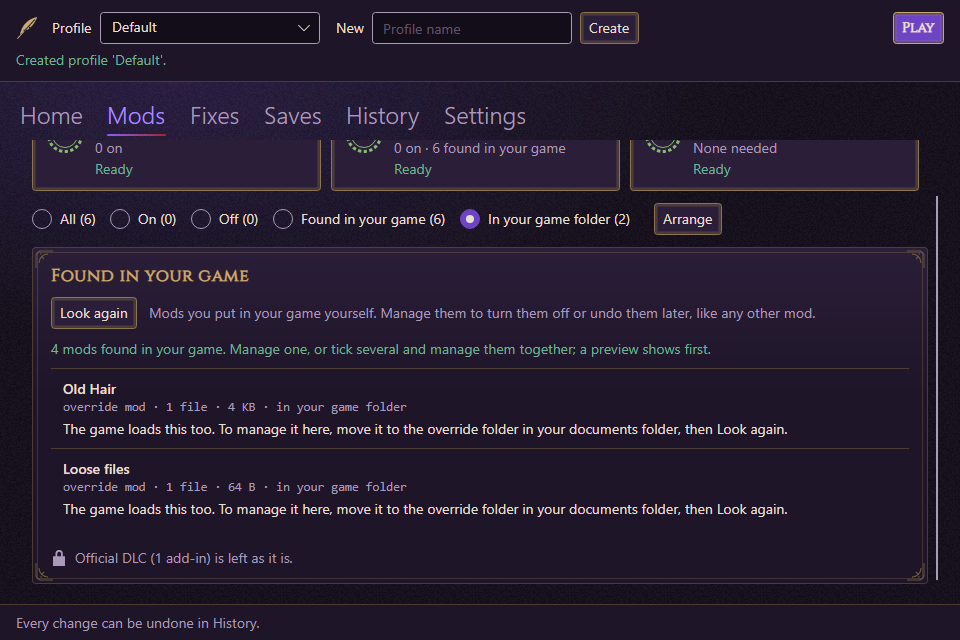
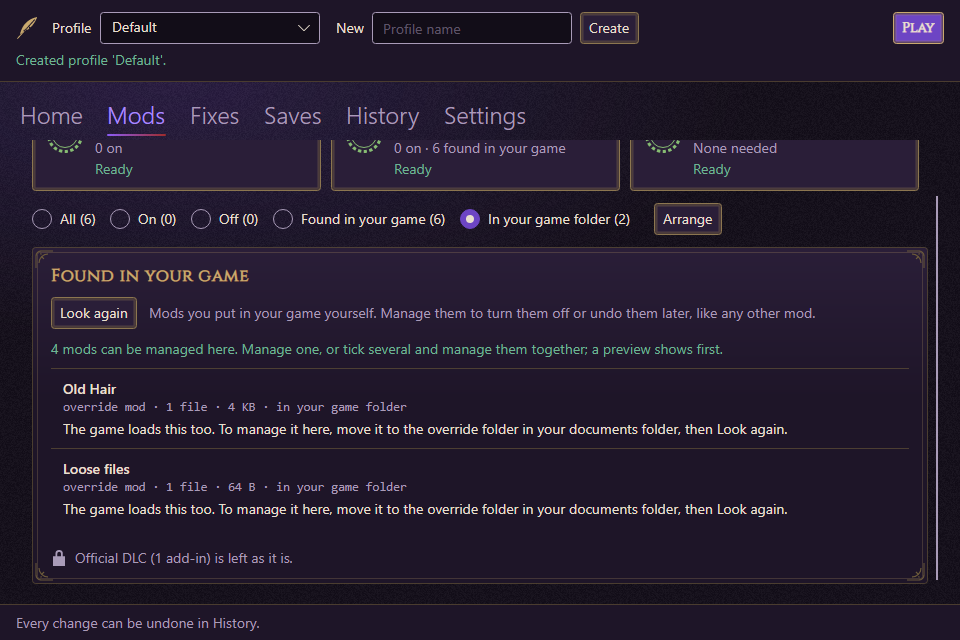
fix(mods): act on the review of the game folder's override list (P2.5-22)
Read sizes from the folder walk, keep the chip when a kind card is picked, count
only what can be managed in the status, and fix the overflow warning's wording.

Changed region(s): [[0.0938, 0.5312, 0.75, 0.5625]]

diff --git a/tests/DAORework.App.Tests/HandInstalledScreenTests.cs b/tests/DAORework.App.Tests/HandInstalledScreenTests.cs
@@ -1,6 +1,7 @@
 using System.IO.Abstractions.TestingHelpers;
 using Avalonia.Controls;
 using Avalonia.Headless.XUnit;
+using Avalonia.VisualTree;
 using DAORework.App.ViewModels;
 using DAORework.App.Views;
 using DAORework.Core.Common;
@@ -114,7 +115,12 @@ public sealed class HandInstalledScreenTests : IDisposable
         Assert.Equal(rows, filter.VisibleFound);
         Assert.False(filter.ShowsMods);
         ShowPanel(window);
+        Assert.False(window.GetVisualDescendants().OfType<StackPanel>().Single(p => p.Name == "SelectionBar").IsVisible);
         Screenshots.Save(window, "36-game-folder-override");
+
+        filter.PickKindCommand.Execute(ModKindFilter.AddIns);
+        Assert.Equal(ModShowFilter.GameFolder, filter.Show);
+        filter.PickKindCommand.Execute(ModKindFilter.AddIns);
 
         _host.FileSystem.Directory.Delete(installOverride, recursive: true);
         await viewModel.HandInstalled.ScanCommand.ExecuteAsync(null);

diff --git a/src/DAORework.App/ViewModels/HandInstalledViewModel.cs b/src/DAORework.App/ViewModels/HandInstalledViewModel.cs
@@ -168,7 +168,7 @@ public sealed partial class HandInstalledViewModel : PageViewModel
         OfficialSummary = official == 0 ? null : $"Official DLC ({Counted.Of(official, "add-in")}) is left as it is.";
         ReportStatus(scan.Candidates.Count == 0
             ? "Nothing found in your game needs managing."
-            : $"{Counted.Of(scan.Candidates.Count, "mod")} found in your game. Manage one, or tick several and manage them together; a preview shows first.");
+            : $"{Counted.Of(scan.Candidates.Count, "mod")} can be managed here. Manage one, or tick several and manage them together; a preview shows first.");
     }
 
     /// <summary>Adds what the game folder's override holds (P2.5-22): listed, and only moved by the player.</summary>

diff --git a/tests/DAORework.Application.Tests/Mods/Adoption/ReadInstallOverrideTests.cs b/tests/DAORework.Application.Tests/Mods/Adoption/ReadInstallOverrideTests.cs
@@ -63,12 +63,6 @@ public sealed class ReadInstallOverrideTests
     {
         public bool Denied { get; set; }
 
-        public override IDirectory Directory => Denied ? new DeniedDirectory(this) : base.Directory;
-    }
-
-    private sealed class DeniedDirectory(MockFileSystem fileSystem) : MockDirectory(fileSystem, string.Empty)
-    {
-        public override IEnumerable<string> EnumerateFiles(string path, string searchPattern, SearchOption searchOption) =>
-            throw new UnauthorizedAccessException("denied");
+        public override IDirectoryInfoFactory DirectoryInfo => Denied ? throw new UnauthorizedAccessException("denied") : base.DirectoryInfo;
     }
 }

diff --git a/src/DAORework.Application/Mods/Adoption/ReadInstallOverride.cs b/src/DAORework.Application/Mods/Adoption/ReadInstallOverride.cs
@@ -40,6 +40,6 @@ public sealed class ReadInstallOverride
     }
 
     private List<InstallOverrideFile> Files(string folder) =>
-        [.. _fileSystem.Directory.EnumerateFiles(folder, "*", SearchOption.AllDirectories)
-            .Select(path => new InstallOverrideFile(_fileSystem.Path.GetRelativePath(folder, path).Replace('\\', '/'), _fileSystem.FileInfo.New(path).Length))];
+        [.. _fileSystem.DirectoryInfo.New(folder).EnumerateFiles("*", SearchOption.AllDirectories)
+            .Select(file => new InstallOverrideFile(_fileSystem.Path.GetRelativePath(folder, file.FullName).Replace('\\', '/'), file.Length))];
 }

diff --git a/src/DAORework.Core/Mods/Planning/InstallOverrideWarnings.cs b/src/DAORework.Core/Mods/Planning/InstallOverrideWarnings.cs
@@ -18,7 +18,7 @@ internal static class InstallOverrideWarnings
         if (plan.InstallOverrideShadows.Count > NamesShown)
         {
             var more = plan.InstallOverrideShadows.Count - NamesShown;
-            warnings.Add($"{ModActivationPlanWarnings.Files(more)} more {(more == 1 ? "is" : "are")} in your game folder's override too.");
+            warnings.Add(more == 1 ? "1 more file is in your game folder's override too." : $"{more} more files are in your game folder's override too.");
         }
 
         if (plan.InstallOverrideProblem is { } problem)

diff --git a/src/DAORework.App/ViewModels/ModListFilter.cs b/src/DAORework.App/ViewModels/ModListFilter.cs
@@ -160,7 +160,7 @@ public sealed partial class ModListFilter : ObservableObject
         FoundLabel = $"Found in your game ({found.Count})";
         var inGameFolder = found.Where(m => m.IsInGameFolder).ToList();
         GameFolderLabel = $"In your game folder ({inGameFolder.Count})";
-        HasGameFolder = inGameFolder.Count > 0;
+        HasGameFolder = _found.Any(m => m.IsInGameFolder);
         if (!HasGameFolder && Show == ModShowFilter.GameFolder)
         {
             Show = ModShowFilter.All; // The chip has gone, and nothing is left under it.

diff --git a/tests/DAORework.Core.Tests/Mods/InstallOverrideWarningsTests.cs b/tests/DAORework.Core.Tests/Mods/InstallOverrideWarningsTests.cs
@@ -36,7 +36,7 @@ public sealed class InstallOverrideWarningsTests
         var warnings = ModActivationPlanWarnings.For(Plan(names, names), id => id);
 
         Assert.Equal(11, warnings.Count);
-        Assert.Equal("2 files more are in your game folder's override too.", warnings[^1]);
+        Assert.Equal("2 more files are in your game folder's override too.", warnings[^1]);
     }
 
     [Fact]
